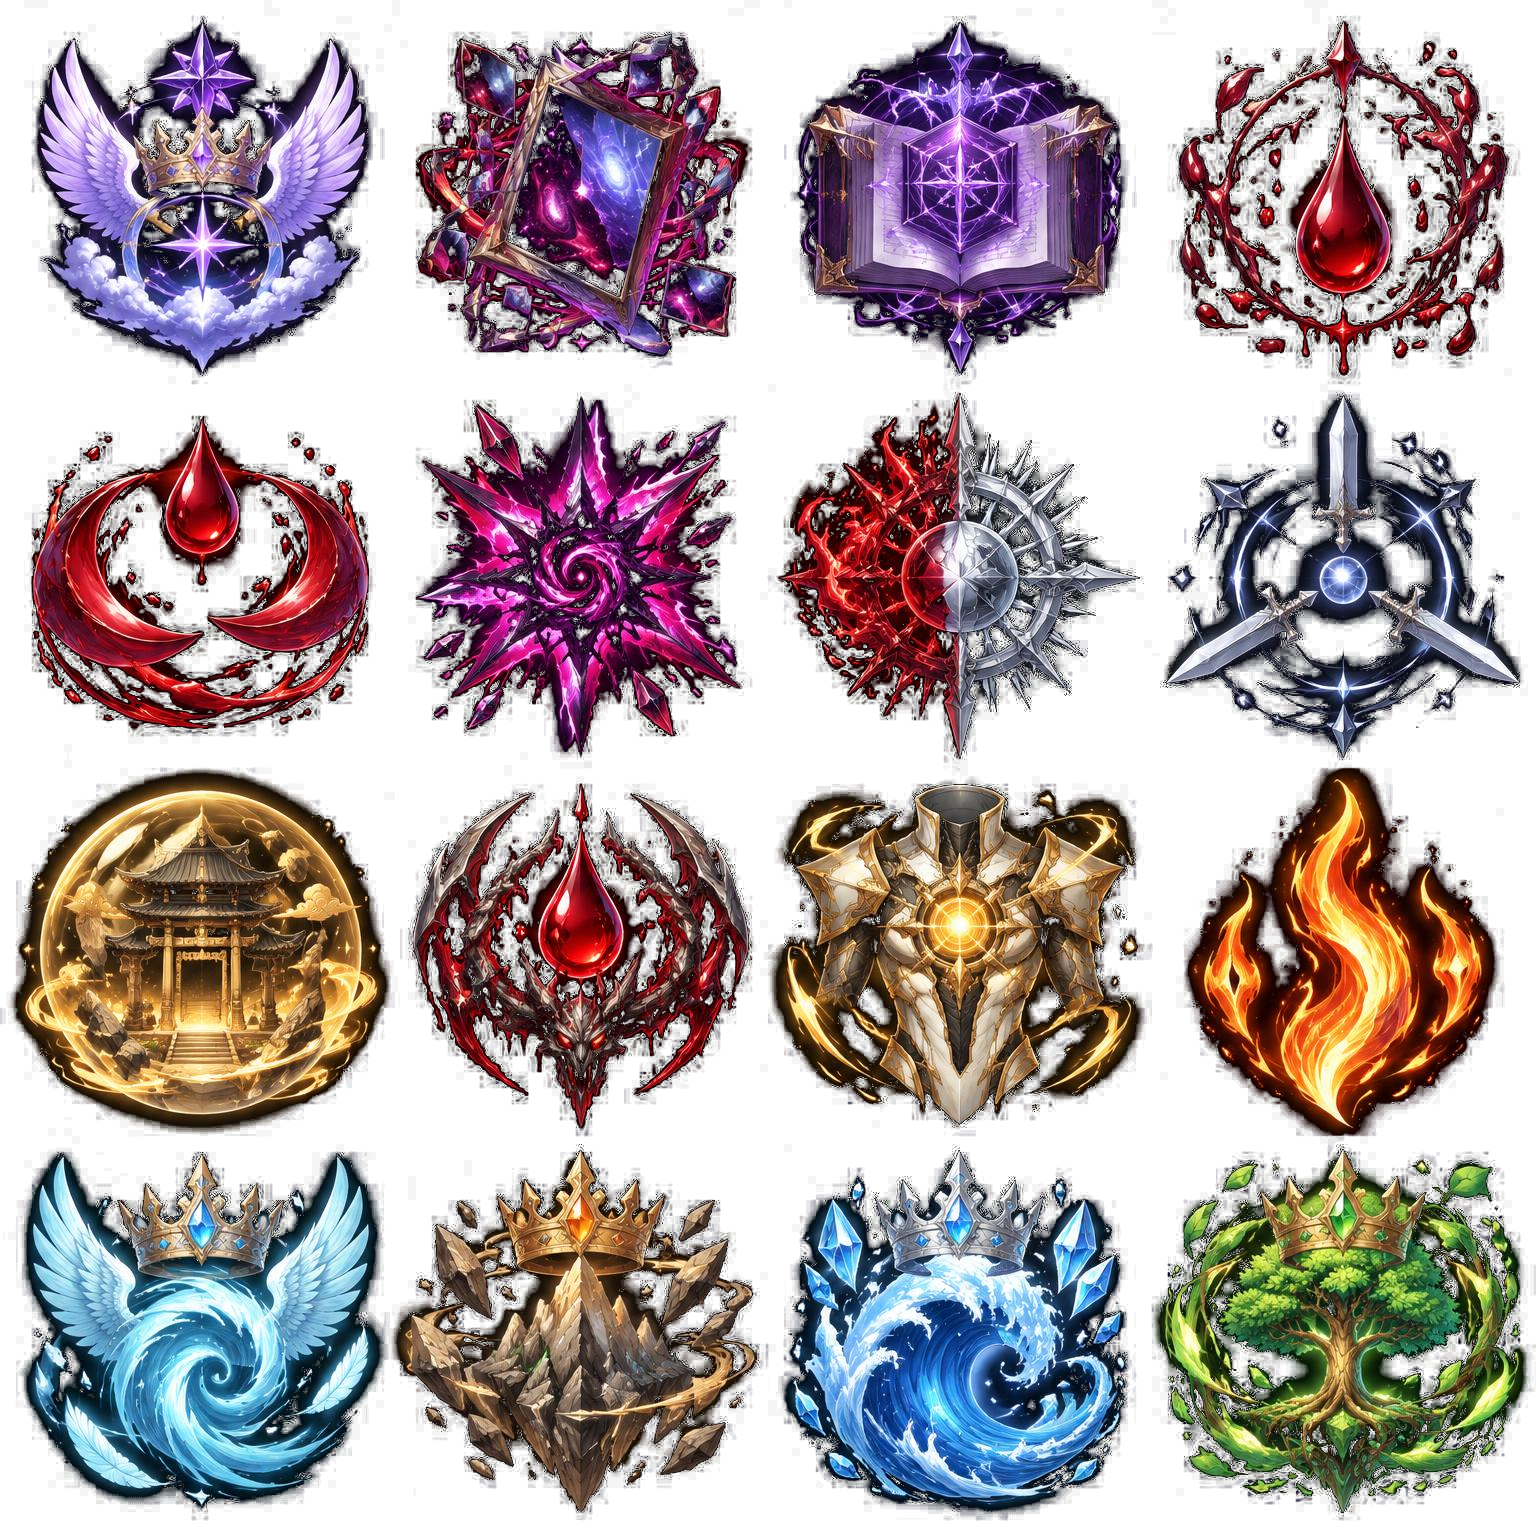
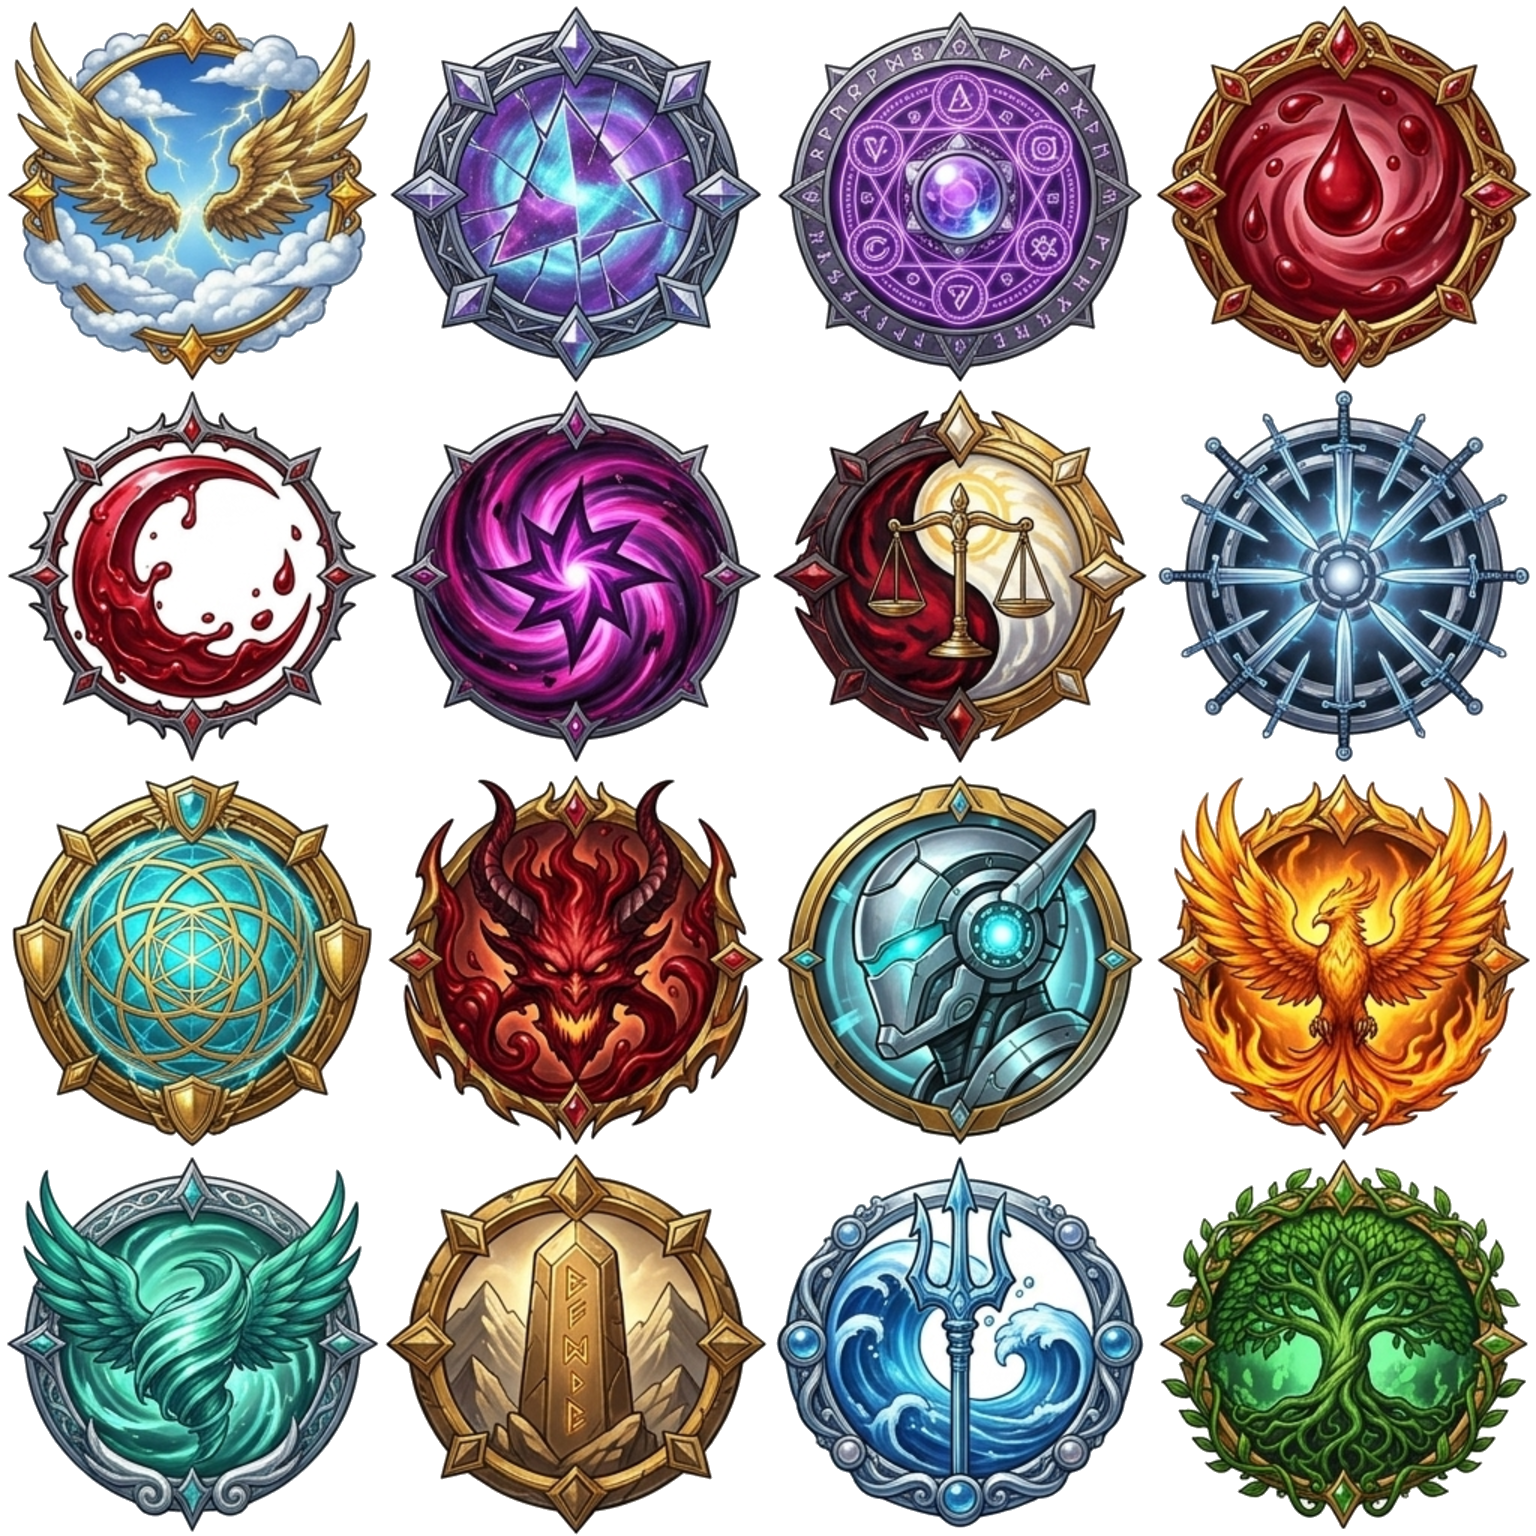
refactor: prevent line breaks in kinetic text words
Wrap words in whitespace-nowrap containers to ensure kinetic animations do not break words across lines. Also add GEMINI_API_KEY to environment template and include missing asset file.

diff --git a/src/components/kinetic-text.tsx b/src/components/kinetic-text.tsx
@@ -13,25 +13,40 @@ export function KineticText({
 }) {
   const { motionActive } = useAppMotion();
   if (!motionActive) return <span className={className}>{text}</span>;
+  let charIndex = 0;
+  const tokens = text.split(/(\s+)/);
   return (
     <span className={className} aria-label={text}>
-      {text.split("").map((ch, i) => (
-        <motion.span
-          key={i}
-          className="inline-block"
-          initial={{ opacity: 0, y: 24, filter: "blur(6px)" }}
-          animate={{ opacity: 1, y: 0, filter: "blur(0px)" }}
-          transition={{
-            type: "spring",
-            stiffness: 250,
-            damping: 20,
-            delay: delay + i * 0.035,
-            mass: 0.7,
-          }}
-        >
-          {ch === " " ? "\u00A0" : ch}
-        </motion.span>
-      ))}
+      {tokens.map((token, tIdx) => {
+        if (/^\s+$/.test(token)) {
+          charIndex += token.length;
+          return <span key={`s-${tIdx}`}>{token}</span>;
+        }
+        return (
+          <span key={`w-${tIdx}`} className="inline-block whitespace-nowrap">
+            {token.split("").map((ch, cIdx) => {
+              const idx = charIndex++;
+              return (
+                <motion.span
+                  key={`c-${tIdx}-${cIdx}`}
+                  className="inline-block"
+                  initial={{ opacity: 0, y: 24, filter: "blur(6px)" }}
+                  animate={{ opacity: 1, y: 0, filter: "blur(0px)" }}
+                  transition={{
+                    type: "spring",
+                    stiffness: 250,
+                    damping: 20,
+                    delay: delay + idx * 0.035,
+                    mass: 0.7,
+                  }}
+                >
+                  {ch}
+                </motion.span>
+              );
+            })}
+          </span>
+        );
+      })}
     </span>
   );
 }
